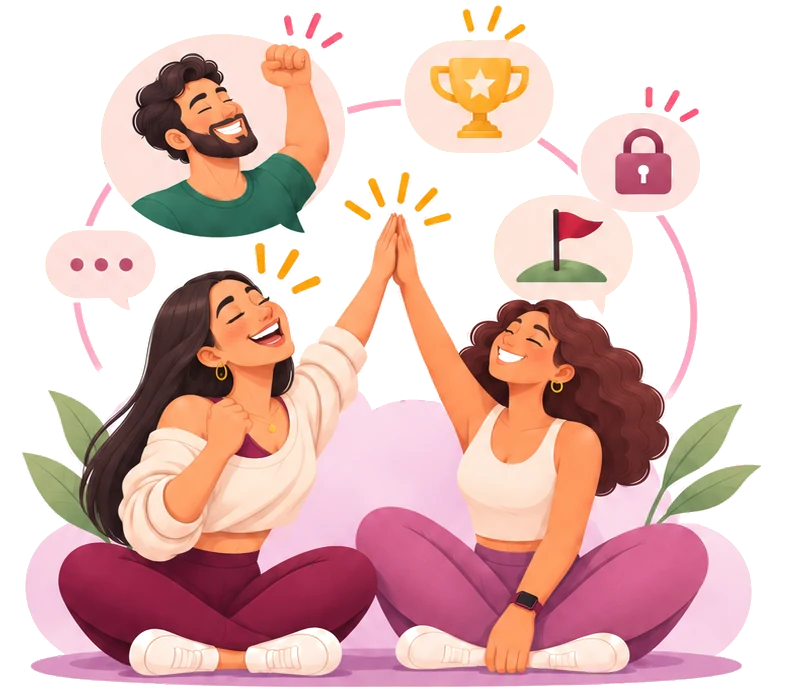
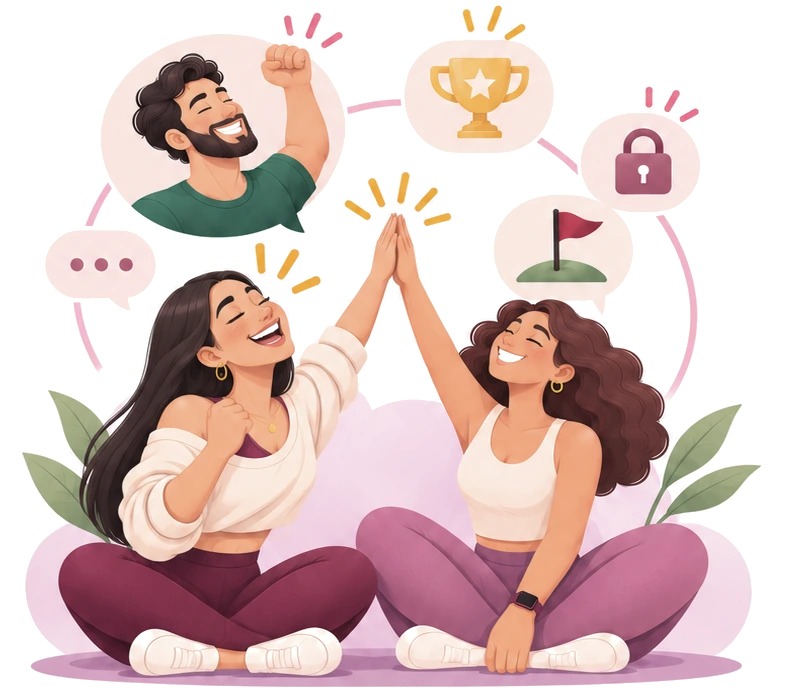
Ilustración de Retos con colores más suaves
Claude-Session: https://claude.ai/code/session_01R32yKYMmTUN3g8Ai4AcWpE

diff --git a/index.html b/index.html
@@ -2742,7 +2742,7 @@ function introVisto(){try{return localStorage.getItem('vuelve_intro')==='1'}catc
 function renderIntro(i=0,dest){
   const N=INTRO.length,x=INTRO[i],ult=i===N-1;
   $('#root').innerHTML=`<div class="intro${x.im==='progress'?' ip':''}"><div class="ihead"><div class="row between" style="align-items:center"><div class="logo">${LOGO}<div><b>VUELVE</b><small>A tu ritmo, hacia ti</small></div></div><div class="irt"><div class="ilang" role="group" aria-label="Idioma"><button data-il="es" class="${LANG==='en'?'':'on'}">ES</button><button data-il="en" class="${LANG==='en'?'on':''}">EN</button></div><button class="ilink" id="iskip">${ult?'':'Saltar'}</button></div></div></div><div class="introc${x.im?'':' noim'}">
-    <p class="eyebrow">${x.ey}</p><h1 class="h1" style="margin-top:8px">${x.t} <span>${x.s}</span></h1><p class="ilead">${x.d}</p>${x.im?`<img class="iimg" src="img/intro/${x.im}.webp?v=4" alt="">`:''}</div>
+    <p class="eyebrow">${x.ey}</p><h1 class="h1" style="margin-top:8px">${x.t} <span>${x.s}</span></h1><p class="ilead">${x.d}</p>${x.im?`<img class="iimg" src="img/intro/${x.im}.webp?v=5" alt="">`:''}</div>
     <div class="ifoot"><div class="idots">${INTRO.map((_,k)=>`<i class="${k===i?'on':''}" data-ig="${k}"></i>`).join('')}</div>
     <div class="ibtns">${ult?`<button class="btn block" id="ireg">Crear mi cuenta</button><button class="btn ghost block" id="ilog">Ya tengo cuenta</button>`
       :`${i?'<button class="btn ghost" id="iprev">Atrás</button>':''}<button class="btn" id="inext" style="flex:1">Siguiente</button>`}</div></div></div>`;
